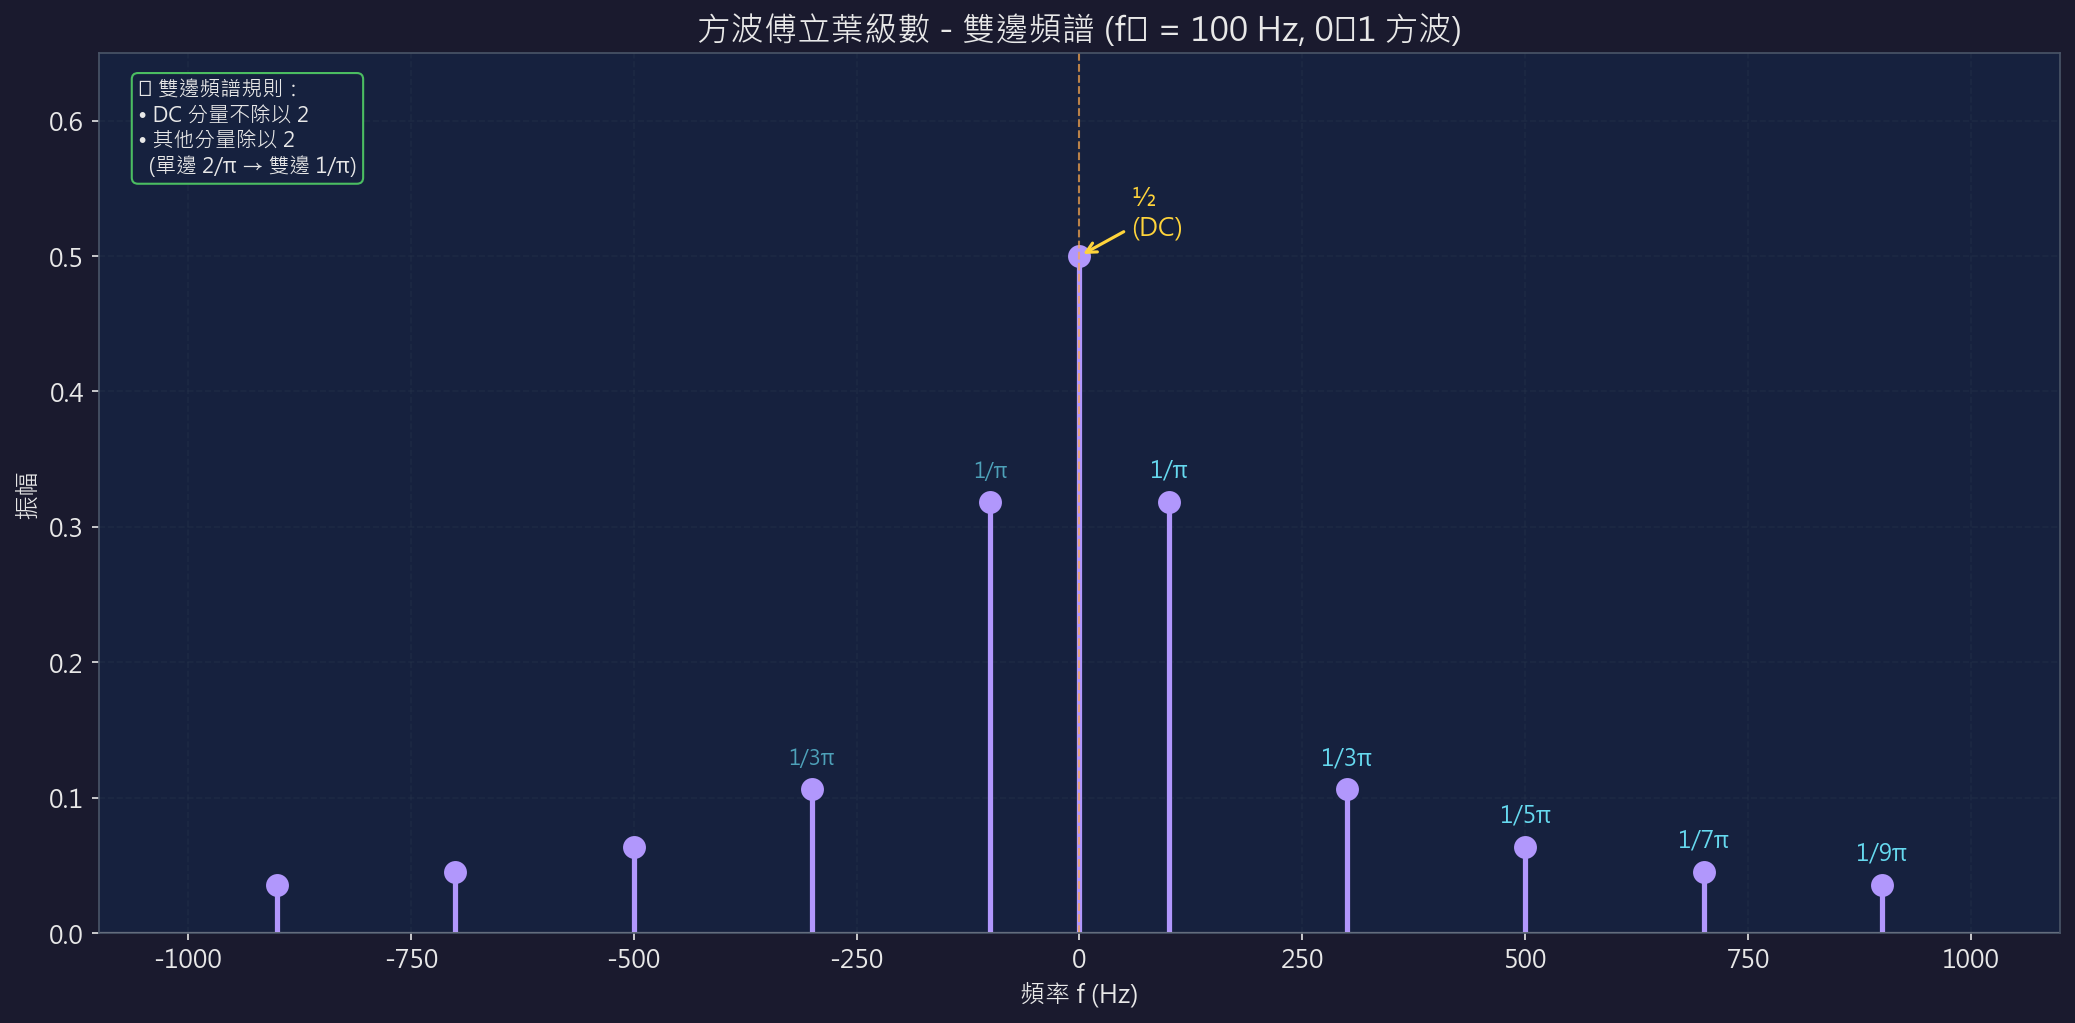
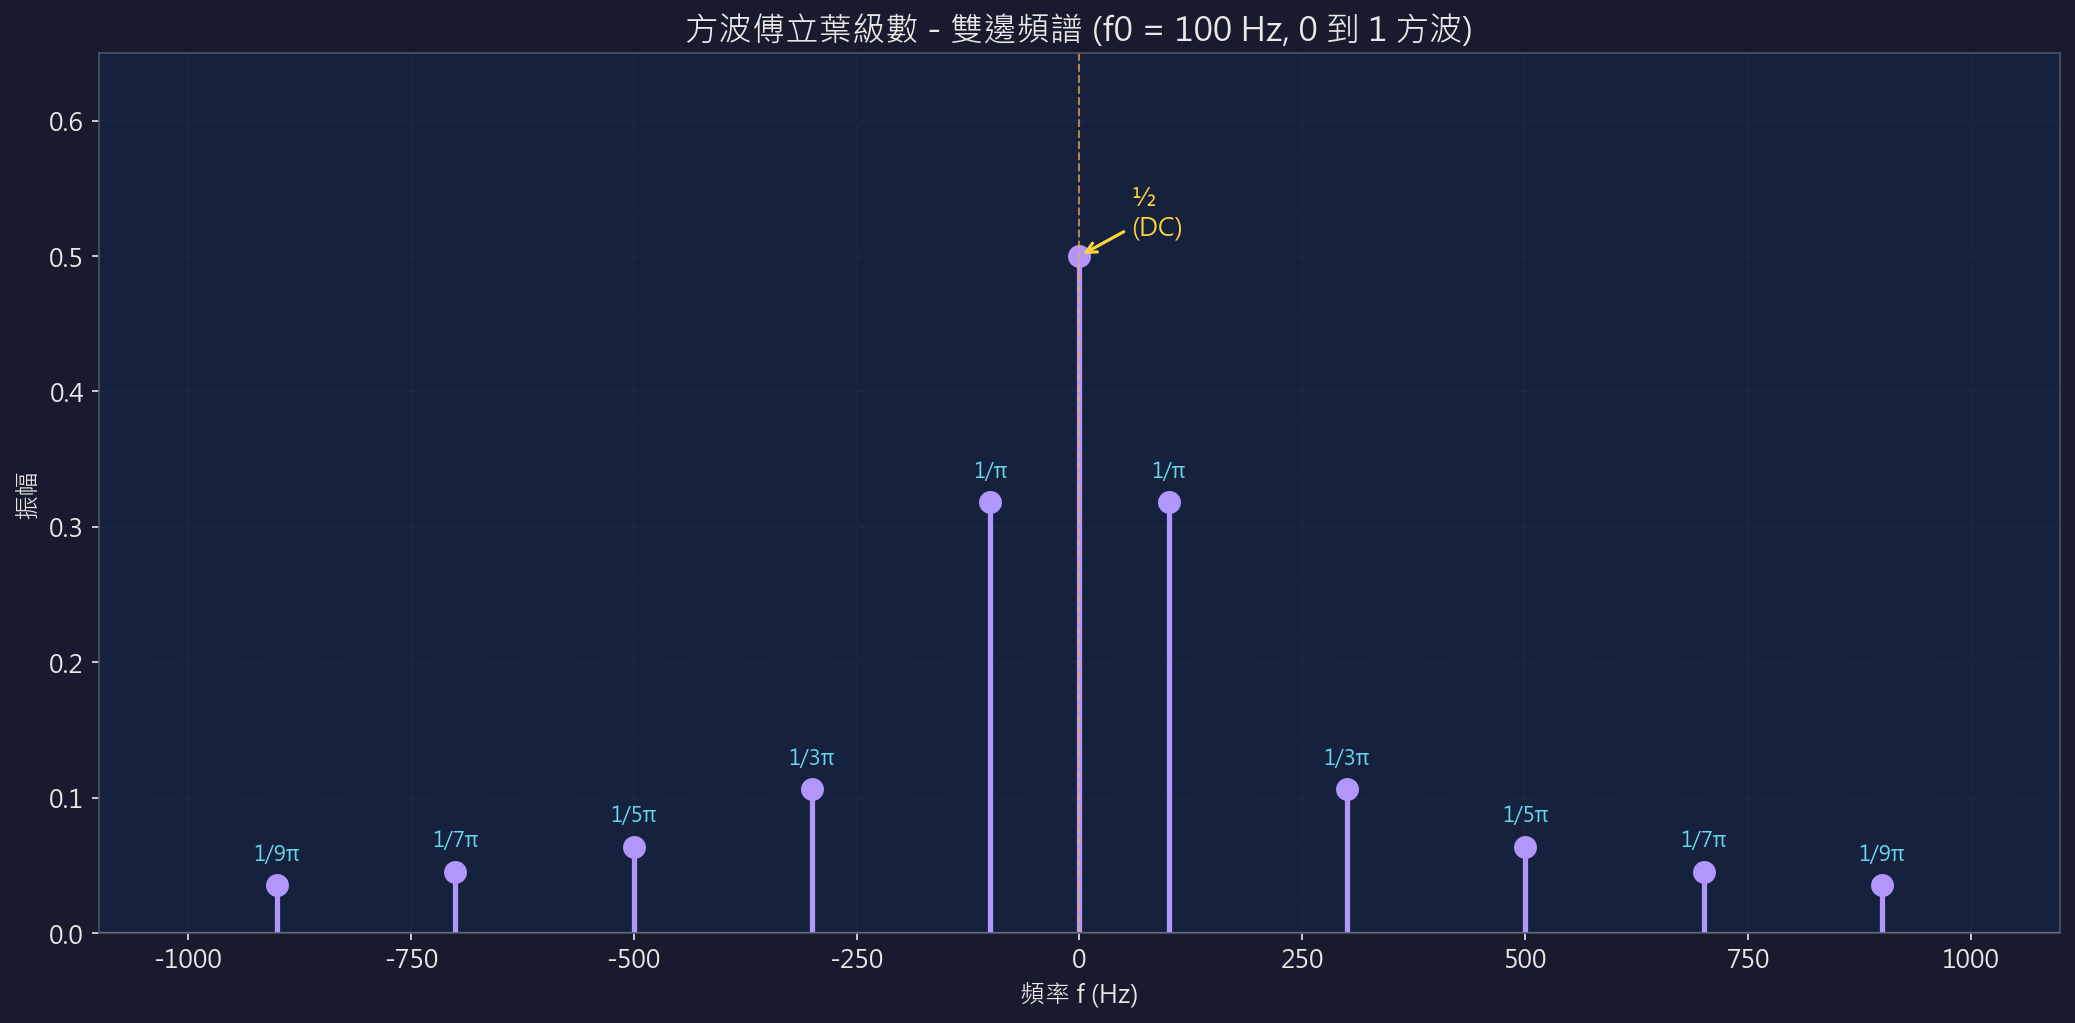
fix: 修正圖表標題字體問題、移除學校名稱、更換封面圖為頻譜圖

diff --git a/scripts/generate_signals_charts.py b/scripts/generate_signals_charts.py
@@ -662,7 +662,7 @@ def problem7_fourier_series():
     plt.setp(stemlines, color=ACCENT_COLORS['purple'], linewidth=2.5)
     plt.setp(markerline, color=ACCENT_COLORS['purple'], markersize=10)
     
-    # 標記每個點的振幅值（分數形式）
+    # 標記每個點的振幅值（分數形式）- 所有點都標註
     for freq, amp in zip(all_freqs, all_amps):
         label = double_sided_labels.get(freq, '')
         if label:
@@ -674,30 +674,11 @@ def problem7_fourier_series():
                            arrowprops=dict(arrowstyle='->', color=ACCENT_COLORS['yellow'], lw=1.5),
                            fontproperties=fp)
             else:
-                # 正頻率標在上方，負頻率標在下方或跳過
-                if freq > 0:
-                    ax.annotate(label, (freq, amp), textcoords="offset points", 
-                               xytext=(0, 12), ha='center', fontsize=11, 
-                               fontweight='bold', color=ACCENT_COLORS['cyan'],
-                               fontproperties=fp_label)
-                else:
-                    # 負頻率只標主要的幾個
-                    if freq in [-100, -300]:
-                        ax.annotate(label, (freq, amp), textcoords="offset points", 
-                                   xytext=(0, 12), ha='center', fontsize=10, 
-                                   color=ACCENT_COLORS['cyan'], alpha=0.7,
-                                   fontproperties=fp_label)
-    
-    # 添加說明框
-    textbox = (
-        '📐 雙邊頻譜規則：\n'
-        '• DC 分量不除以 2\n'
-        '• 其他分量除以 2\n'
-        '  (單邊 2/π → 雙邊 1/π)'
-    )
-    ax.text(0.02, 0.97, textbox, transform=ax.transAxes, fontsize=10,
-           verticalalignment='top', fontproperties=fp,
-           bbox=dict(boxstyle='round', facecolor=DARK_AXES_BG, edgecolor=ACCENT_COLORS['green'], alpha=0.9))
+                # 所有頻率都標註（正負都標）
+                ax.annotate(label, (freq, amp), textcoords="offset points", 
+                           xytext=(0, 12), ha='center', fontsize=10, 
+                           fontweight='bold', color=ACCENT_COLORS['cyan'],
+                           fontproperties=fp_label)
     
     ax.axhline(y=0, color=TEXT_COLOR, linewidth=1)
     ax.axvline(x=0, color=ACCENT_COLORS['orange'], linewidth=1, linestyle='--', alpha=0.7)
@@ -705,7 +686,7 @@ def problem7_fourier_series():
     ax.set_ylim(0, 0.65)
     ax.set_xlabel('頻率 f (Hz)', fontsize=12, fontproperties=fp)
     ax.set_ylabel('振幅', fontsize=12, fontproperties=fp)
-    ax.set_title(f'方波傅立葉級數 - 雙邊頻譜 (f₀ = {f0} Hz, 0↔1 方波)', fontsize=16, fontweight='bold', fontproperties=fp_title)
+    ax.set_title(f'方波傅立葉級數 - 雙邊頻譜 (f0 = {f0} Hz, 0 到 1 方波)', fontsize=16, fontweight='bold', fontproperties=fp_title)
     ax.grid(True, alpha=0.3)
     
     plt.tight_layout()

diff --git a/src/content/posts/signals-systems-exam-solutions.md b/src/content/posts/signals-systems-exam-solutions.md
@@ -1,8 +1,8 @@
 ---
 title: "📡 訊號與系統期末考完整解析：8 道題目詳解與公式整理"
 published: 2026-01-03
-description: "南台科大訊號與系統期末考考古題完整解析，涵蓋訊號分類、LTI系統、傅立葉轉換、卷積、理想濾波器、取樣定理、傅立葉級數等核心概念，附詳細解題步驟與公式推導！"
-image: "/images/articles/signals-exam-page1.png"
+description: "訊號與系統期末考完整解析，涵蓋訊號分類、LTI系統、傅立葉轉換、卷積、理想濾波器、取樣定理、傅立葉級數等核心概念，附詳細解題步驟與公式推導！"
+image: "/images/articles/problem3_spectrum.png"
 tags: ["訊號與系統", "傅立葉轉換", "取樣定理", "卷積", "期末考"]
 category: "課業筆記"
 draft: false
